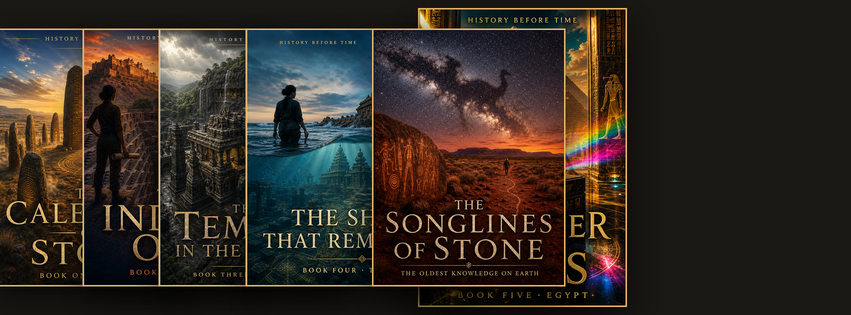
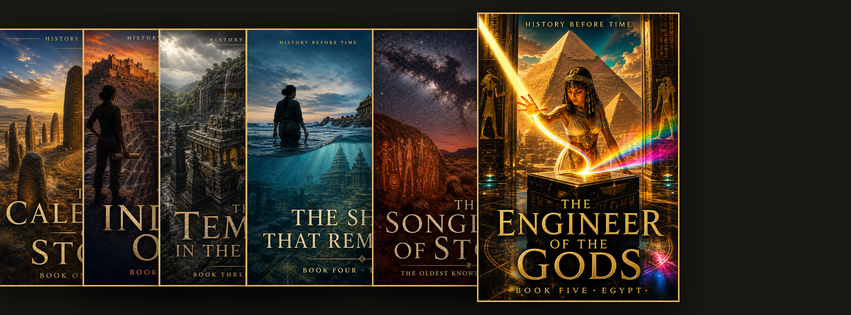
brand: Facebook cover — dense HBT collage, Engineer on top
Engineer of the Gods now rendered last (on top) so it's fully visible above the
5 supporting covers (Calendar of Stone, Temple in the Rock ×2, Shore That
Remembers, Songlines of Stone) which are densely packed left with 65% overlap.
Engineer at 92% frame height, golden figure + pyramids prominent. Minimal
wasted space. 851x315 + 2x master.

Changed region(s): [[0.4888, 0.0, 0.8249, 1.0]]

diff --git a/brand/facebook/build_cover.py b/brand/facebook/build_cover.py
@@ -75,27 +75,24 @@ def main():
     warm = Image.new("RGB", (sw, sh), (38, 33, 24))
     canvas = Image.composite(warm, canvas, vig)
 
-    # ── The hero: Engineer of the Gods, large + centered-right ──
-    # Scale it up to fill most of the height, tight to the right edge.
-    hero_h = int(sh * 0.95)                  # nearly full height
-    hero = _cover_shadowed(HERO, hero_h)
-    hero_x = int(sw * 0.45)                  # positioned so it extends to the right edge
-    hero_y = (sh - hero.height) // 2
-    canvas.paste(hero, (hero_x, hero_y), hero)
-
-    # ── The supporting 5 covers: tighter overlap, densely packed on the left ──
-    cover_h = int(sh * 0.82)                 # larger (match more of the height)
-    overlap = int(cover_h * 0.65)            # aggressive overlap → more visible at once
+    # ── The supporting 5 covers: densely packed on the left ──
+    cover_h = int(sh * 0.82)
+    overlap = int(cover_h * 0.65)            # aggressive overlap
     tiles = [_cover_shadowed(BOOKS / c / "design" / "cover.png", cover_h) for c in COVERS]
     step = [t.width - overlap for t in tiles]
     total_w = sum(step[:-1]) + tiles[-1].width
-    # Position the fan tight to the left edge, flowing into the hero.
-    fan_right = hero_x - int(tiles[0].width * 0.04)
-    x = max(int(-tiles[0].width * 0.15), fan_right - total_w)  # allow some bleed left for drama
+    x = int(-tiles[0].width * 0.15)          # start slightly off-left for drama
     y = (sh - tiles[0].height) // 2
     for i, t in enumerate(tiles):
         canvas.paste(t, (x, y), t)
         x += step[i] if i < len(tiles) - 1 else 0
+
+    # ── The hero: Engineer of the Gods, pasted LAST so it's on top ──
+    hero_h = int(sh * 0.92)
+    hero = _cover_shadowed(HERO, hero_h)
+    hero_x = int(sw * 0.52)                  # right side, positioned to overlap slightly but stay visible
+    hero_y = (sh - hero.height) // 2
+    canvas.paste(hero, (hero_x, hero_y), hero)
 
     canvas.save(out_2x)
     canvas.resize((W, H), Image.LANCZOS).save(out, optimize=True)
